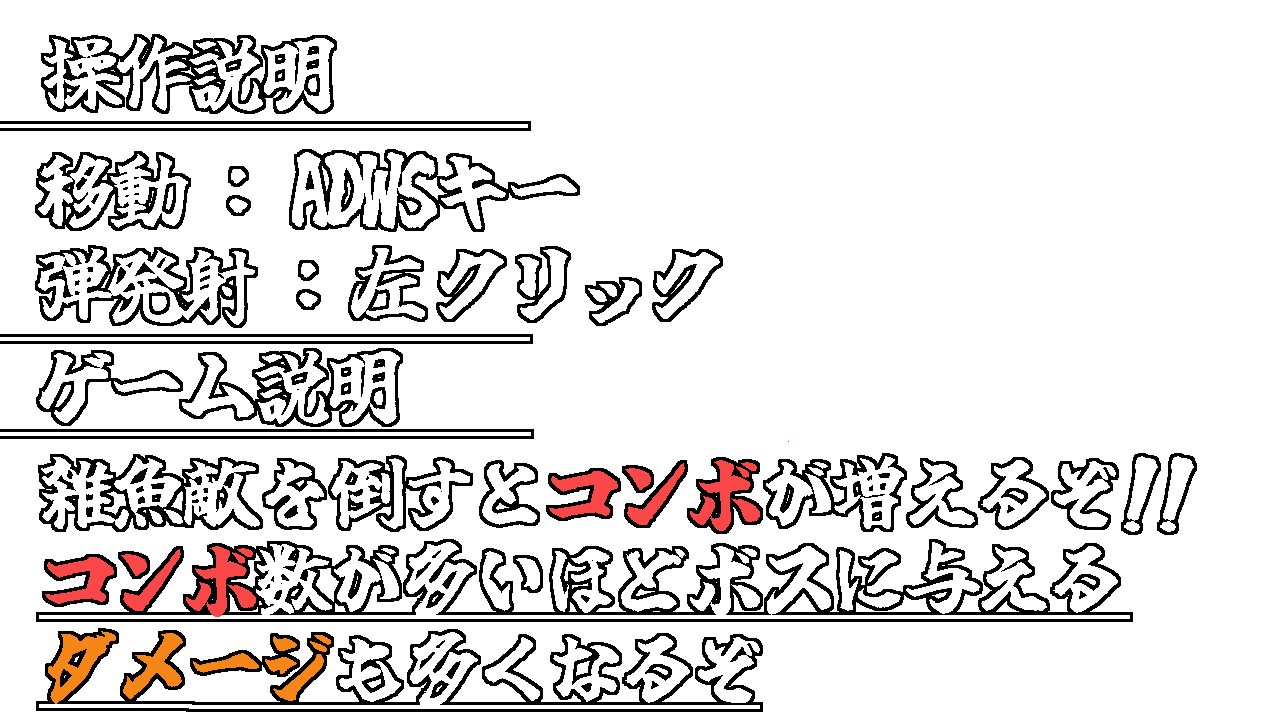
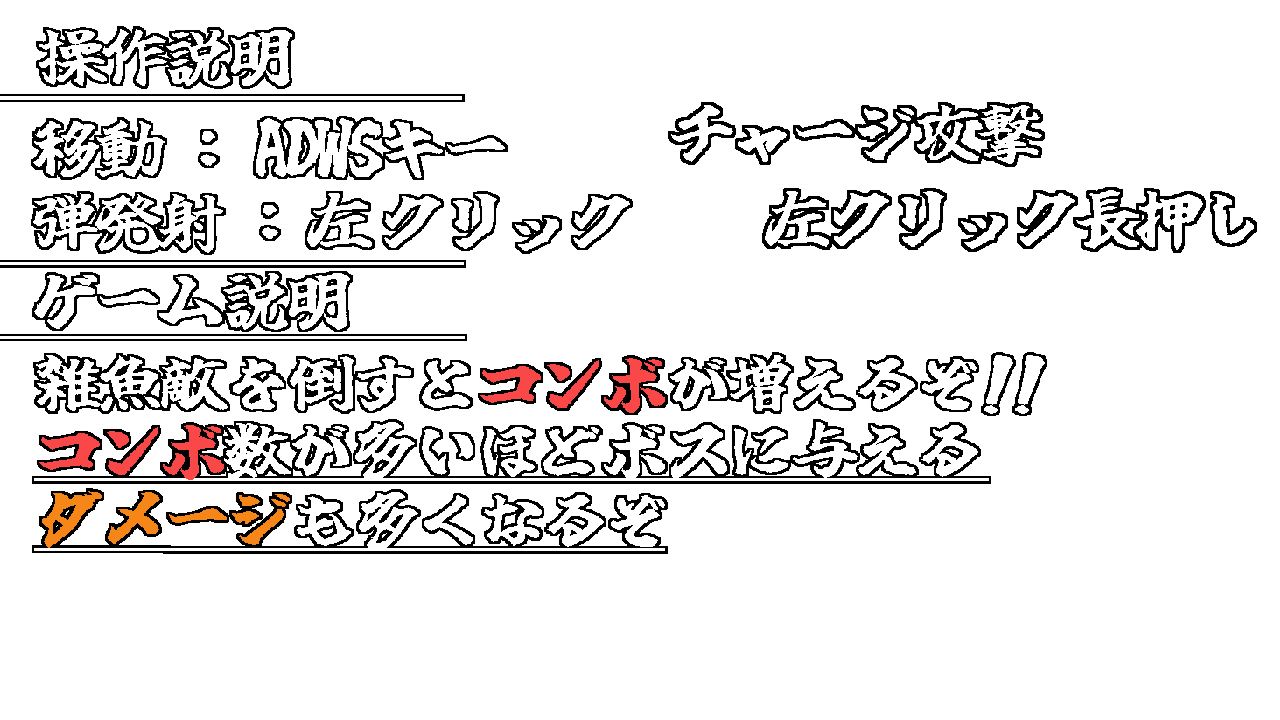
ゲーム説明追加

Changed region(s): [[0.0, 0.0306, 0.9375, 1.0], [0.5, 0.1222, 1.0, 0.3667]]

diff --git a/DirectXGame/Game/Scene/GameTitle.cpp b/DirectXGame/Game/Scene/GameTitle.cpp
@@ -53,7 +53,7 @@ void GameTitle::Initialize() {
 	);
 
 	// サイズを少し小さくする
-	tutorialImageSprite_->SetSize({1280.0f, 520.0f});
+	tutorialImageSprite_->SetSize({1280.0f, 620.0f});
 
 	// チュートリアル用の黒い背景の初期化
 	tutorialBackgroundSpriteTH_ = TextureManager::Load("white1x1.png");
